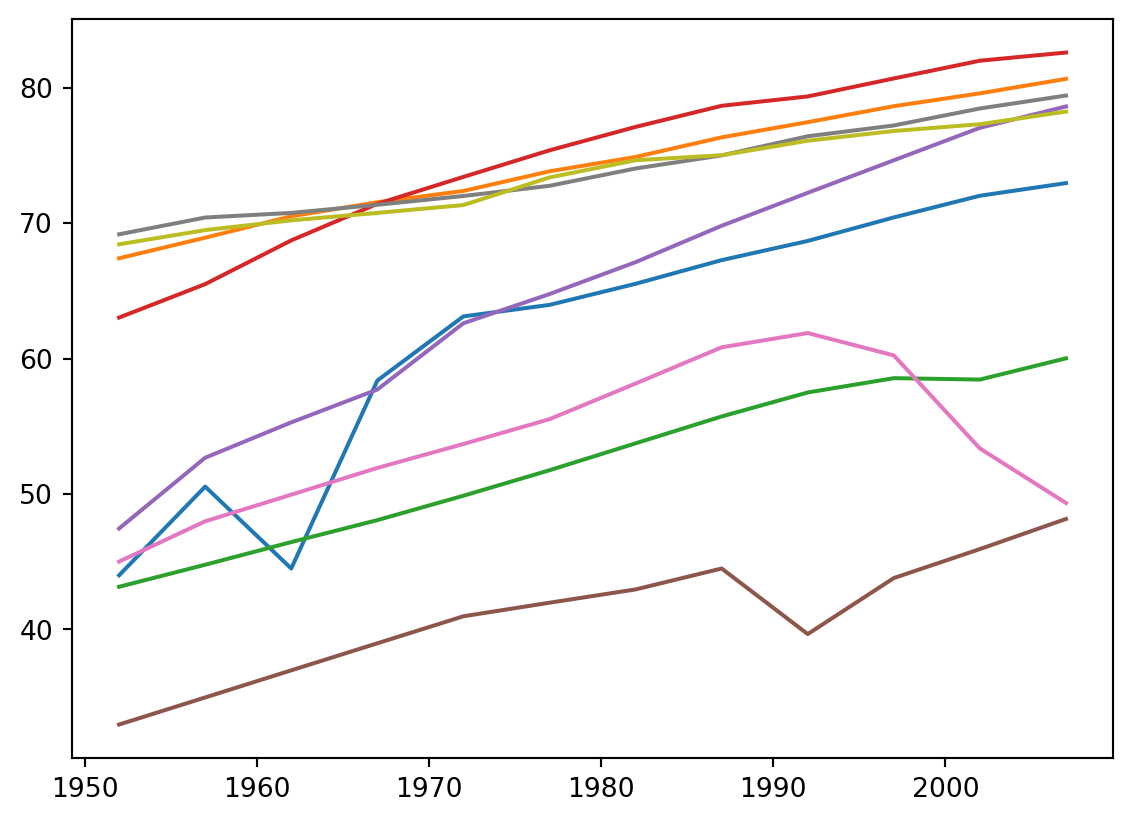
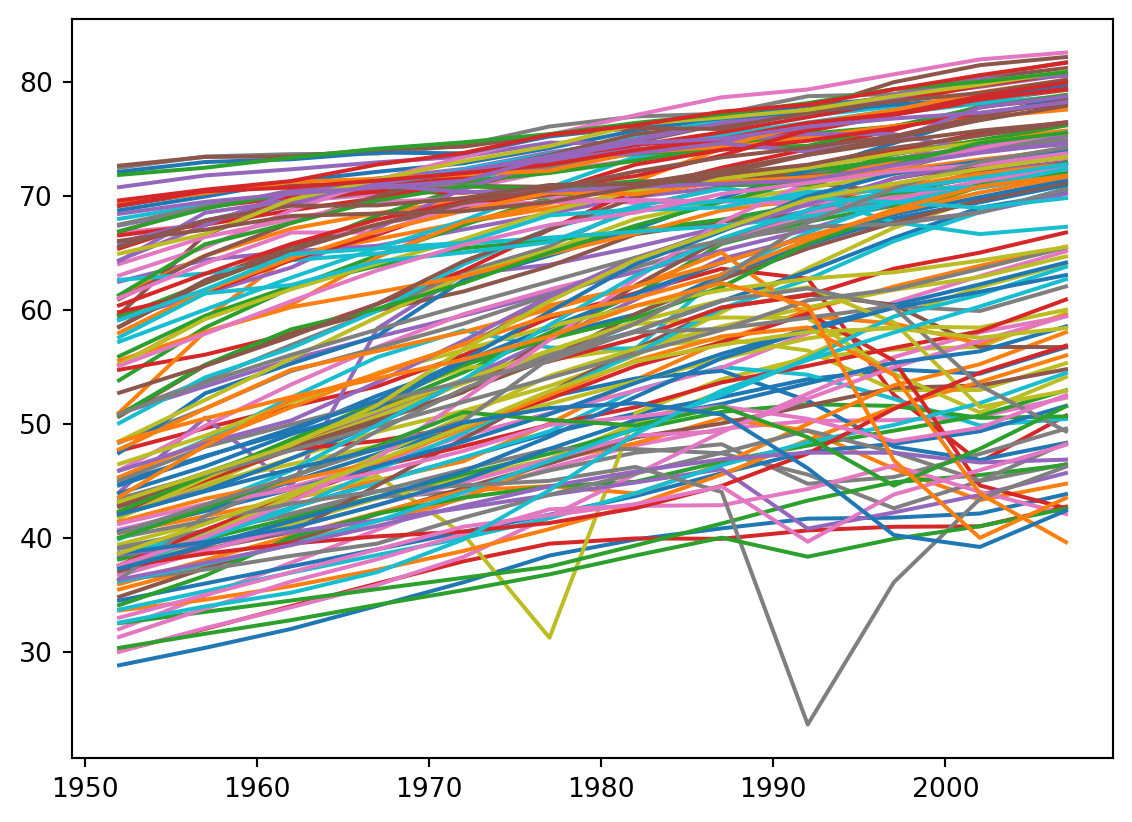
Built site for gh-pages

diff --git a/posts/lineplot_following_economist_visual_guide/index.html b/posts/lineplot_following_economist_visual_guide/index.html
@@ -9,7 +9,7 @@
 <meta name="author" content="Jun Damin">
 <meta name="dcterms.date" content="2022-11-02">
 
-<title>Practical Recipes for Data Science - ‘Economist’ 시각화 가이드를 matplotlib에 적용하기</title>
+<title>Practical Recipes for Data Science - Economist 시각화 가이드를 matplotlib에 적용하기</title>
 <style>
 code{white-space: pre-wrap;}
 span.smallcaps{font-variant: small-caps;}
@@ -167,8 +167,9 @@ code span.wa { color: #60a0b0; font-weight: bold; font-style: italic; } /* Warni
 <header id="title-block-header" class="quarto-title-block default page-columns page-full">
   <div class="quarto-title-banner page-columns page-full">
     <div class="quarto-title column-body">
-      <h1 class="title">Line plot following visual guide of Economists</h1>
+      <h1 class="title">Economist 시각화 가이드를 matplotlib에 적용하기</h1>
                                 <div class="quarto-categories">
+                <div class="quarto-category">python</div>
                 <div class="quarto-category">plot</div>
                 <div class="quarto-category">visualization</div>
                 <div class="quarto-category">matplotlib</div>
@@ -206,120 +207,136 @@ code span.wa { color: #60a0b0; font-weight: bold; font-style: italic; } /* Warni
 
 
 
-<p>we will plot the famous gapminder dataset.</p>
-<div class="cell" data-execution_count="1">
+<p>Economist는 영국에서 발간하는 경제 주간지로 전세계에 일어나고 있는 뉴스를 전달합니다. 뉴스를 전달하는 과정에서 여러가지 차트를 제시하곤 하는데, 설득력 있게 전달하는 방식을 matplotlib에서 적용을 해보고자 합니다.</p>
+<p>예시로 사용할 데이터는 한스 로슬링 박사님이 사용하셨던 gap minder 데이터를 사용해보고자 합니다.</p>
+<p>우선 필요한 패키지를 불러옵니다.</p>
+<div class="cell">
 <div class="sourceCode cell-code" id="cb1"><pre class="sourceCode python code-with-copy"><code class="sourceCode python"><span id="cb1-1"><a href="#cb1-1" aria-hidden="true" tabindex="-1"></a><span class="im">import</span> matplotlib.pyplot <span class="im">as</span> plt</span>
 <span id="cb1-2"><a href="#cb1-2" aria-hidden="true" tabindex="-1"></a><span class="im">import</span> pandas <span class="im">as</span> pd</span>
-<span id="cb1-3"><a href="#cb1-3" aria-hidden="true" tabindex="-1"></a><span class="im">import</span> numpy <span class="im">as</span> np</span></code><button title="Copy to Clipboard" class="code-copy-button"><i class="bi"></i></button></pre></div>
+<span id="cb1-3"><a href="#cb1-3" aria-hidden="true" tabindex="-1"></a><span class="im">import</span> numpy <span class="im">as</span> np</span>
+<span id="cb1-4"><a href="#cb1-4" aria-hidden="true" tabindex="-1"></a></span>
+<span id="cb1-5"><a href="#cb1-5" aria-hidden="true" tabindex="-1"></a>gapminder <span class="op">=</span> pd.read_csv(<span class="st">"https://raw.githubusercontent.com/OHI-Science/data-science-training/master/data/gapminder.csv"</span>)</span></code><button title="Copy to Clipboard" class="code-copy-button"><i class="bi"></i></button></pre></div>
 </div>
-<p>we use three packages</p>
-<section id="basic-plot" class="level3">
-<h3 class="anchored" data-anchor-id="basic-plot">basic plot</h3>
-<div class="cell" data-execution_count="2">
-<div class="sourceCode cell-code" id="cb2"><pre class="sourceCode python code-with-copy"><code class="sourceCode python"><span id="cb2-1"><a href="#cb2-1" aria-hidden="true" tabindex="-1"></a>gapminder <span class="op">=</span> pd.read_csv(<span class="st">"https://raw.githubusercontent.com/OHI-Science/data-science-training/master/data/gapminder.csv"</span>)</span>
+<section id="기본-그래프-출력하기" class="level3">
+<h3 class="anchored" data-anchor-id="기본-그래프-출력하기">기본 그래프 출력하기</h3>
+<p>matplotlib에서 기본적으로 출력할 수 있는 방식은 다음과 같습니다. seaborn을 쓰면 조금 다르겠지만, 크게 다르지 않습니다.</p>
+<div class="cell">
+<div class="sourceCode cell-code" id="cb2"><pre class="sourceCode python code-with-copy"><code class="sourceCode python"><span id="cb2-1"><a href="#cb2-1" aria-hidden="true" tabindex="-1"></a>countries <span class="op">=</span> [<span class="st">'United Kingdom'</span>, <span class="st">'United States'</span>, <span class="st">'France'</span>, <span class="st">'China'</span>, <span class="st">'Japan'</span>, <span class="st">'Korea Rep.'</span>, <span class="st">'Ghana'</span>, <span class="st">'Somalia'</span>, <span class="st">'South Africa'</span>,]</span>
 <span id="cb2-2"><a href="#cb2-2" aria-hidden="true" tabindex="-1"></a></span>
-<span id="cb2-3"><a href="#cb2-3" aria-hidden="true" tabindex="-1"></a>countries <span class="op">=</span> [<span class="st">'United Kingdom'</span>, <span class="st">'United States'</span>, <span class="st">'France'</span>, <span class="st">'China'</span>, <span class="st">'Japan'</span>, <span class="st">'Korea Rep.'</span>, <span class="st">'Ghana'</span>, <span class="st">'Somalia'</span>, <span class="st">'South Africa'</span>,]</span>
-<span id="cb2-4"><a href="#cb2-4" aria-hidden="true" tabindex="-1"></a></span>
-<span id="cb2-5"><a href="#cb2-5" aria-hidden="true" tabindex="-1"></a>data <span class="op">=</span> gapminder.loc[gapminder.country.isin(countries)]</span>
-<span id="cb2-6"><a href="#cb2-6" aria-hidden="true" tabindex="-1"></a>fig, ax <span class="op">=</span> plt.subplots(<span class="dv">1</span>, <span class="dv">1</span>)</span>
-<span id="cb2-7"><a href="#cb2-7" aria-hidden="true" tabindex="-1"></a></span>
-<span id="cb2-8"><a href="#cb2-8" aria-hidden="true" tabindex="-1"></a><span class="cf">for</span> country, df <span class="kw">in</span> data.groupby(<span class="st">"country"</span>):</span>
-<span id="cb2-9"><a href="#cb2-9" aria-hidden="true" tabindex="-1"></a>    ax.plot(df[<span class="st">"year"</span>], df[<span class="st">"lifeExp"</span>], label<span class="op">=</span>country)</span>
-<span id="cb2-10"><a href="#cb2-10" aria-hidden="true" tabindex="-1"></a></span>
-<span id="cb2-11"><a href="#cb2-11" aria-hidden="true" tabindex="-1"></a>plt.show()</span></code><button title="Copy to Clipboard" class="code-copy-button"><i class="bi"></i></button></pre></div>
-<div class="cell-output cell-output-display">
-<p><img src="index_files/figure-html/cell-3-output-1.png" width="566" height="411"></p>
+<span id="cb2-3"><a href="#cb2-3" aria-hidden="true" tabindex="-1"></a>data <span class="op">=</span> gapminder.loc[gapminder.country.isin(countries)]</span>
+<span id="cb2-4"><a href="#cb2-4" aria-hidden="true" tabindex="-1"></a>fig, ax <span class="op">=</span> plt.subplots(<span class="dv">1</span>, <span class="dv">1</span>)</span>
+<span id="cb2-5"><a href="#cb2-5" aria-hidden="true" tabindex="-1"></a></span>
+<span id="cb2-6"><a href="#cb2-6" aria-hidden="true" tabindex="-1"></a><span class="cf">for</span> country, df <span class="kw">in</span> gapminder.groupby(<span class="st">"country"</span>):</span>
+<span id="cb2-7"><a href="#cb2-7" aria-hidden="true" tabindex="-1"></a>    ax.plot(df[<span class="st">"year"</span>], df[<span class="st">"lifeExp"</span>], label<span class="op">=</span>country)</span>
+<span id="cb2-8"><a href="#cb2-8" aria-hidden="true" tabindex="-1"></a></span>
+<span id="cb2-9"><a href="#cb2-9" aria-hidden="true" tabindex="-1"></a>plt.show()</span></code><button title="Copy to Clipboard" class="code-copy-button"><i class="bi"></i></button></pre></div>
 </div>
-</div>
-<p>From now, I will change this graph beautifully.</p>
-<div class="cell" data-execution_count="3">
-<div class="sourceCode cell-code" id="cb3"><pre class="sourceCode python code-with-copy"><code class="sourceCode python"><span id="cb3-1"><a href="#cb3-1" aria-hidden="true" tabindex="-1"></a><span class="co"># Setup plot size.</span></span>
-<span id="cb3-2"><a href="#cb3-2" aria-hidden="true" tabindex="-1"></a>fig, ax <span class="op">=</span> plt.subplots(figsize<span class="op">=</span>(<span class="dv">6</span>,<span class="dv">6</span>))</span>
+<p>보시면 알겠지만, 너무 많은 선이 노출되어 있어서 무엇을 전달하려고 하는지 전달이 되지 않습니다. 전반적으로 기대 수명이 개선 되고 있는 것을 확인할 수 있습니다만, 너무 복잡해서 무엇을 전달하고자 하는지 이해가 되지 않습니다.</p>
+</section>
+<section id="스타일-적용하기" class="level3">
+<h3 class="anchored" data-anchor-id="스타일-적용하기">스타일 적용하기</h3>
+<p>Economist에서 방식은 메시지를 집중하는 방식을 사용합니다.</p>
+<p>앞으로 진행해보고자 하는 것을 정리하자면</p>
+<ol type="1">
+<li>비교하고자 하는 자료를 강조하고 그 외의 자료는 간략하게</li>
+<li>세로축과 보조선을 제외하기</li>
+<li>가로선을 설정하기</li>
+<li>태그 넣기</li>
+</ol>
+<p>정도 입니다. 아래에 그 방식을 따라하면 됩니다.</p>
+<div class="cell">
+<div class="sourceCode cell-code" id="cb3"><pre class="sourceCode python code-with-copy"><code class="sourceCode python"><span id="cb3-1"><a href="#cb3-1" aria-hidden="true" tabindex="-1"></a><span class="co"># 플롯 설정하기</span></span>
+<span id="cb3-2"><a href="#cb3-2" aria-hidden="true" tabindex="-1"></a>fig, ax <span class="op">=</span> plt.subplots(figsize<span class="op">=</span>(<span class="dv">8</span>,<span class="dv">6</span>))</span>
 <span id="cb3-3"><a href="#cb3-3" aria-hidden="true" tabindex="-1"></a></span>
-<span id="cb3-4"><a href="#cb3-4" aria-hidden="true" tabindex="-1"></a><span class="co"># Create grid </span></span>
-<span id="cb3-5"><a href="#cb3-5" aria-hidden="true" tabindex="-1"></a><span class="co"># Zorder tells it which layer to put it on. We are setting this to 1 and our data to 2 so the grid is behind the data.</span></span>
+<span id="cb3-4"><a href="#cb3-4" aria-hidden="true" tabindex="-1"></a><span class="co"># 1. 보조선 그리기</span></span>
+<span id="cb3-5"><a href="#cb3-5" aria-hidden="true" tabindex="-1"></a><span class="co"># zorder를 통해서 보여지는 순서를 지정할 수 있습니다.</span></span>
 <span id="cb3-6"><a href="#cb3-6" aria-hidden="true" tabindex="-1"></a></span>
 <span id="cb3-7"><a href="#cb3-7" aria-hidden="true" tabindex="-1"></a>ax.yaxis.set_ticks(<span class="bu">range</span>(<span class="dv">25</span>, <span class="dv">100</span>, <span class="dv">15</span>))</span>
 <span id="cb3-8"><a href="#cb3-8" aria-hidden="true" tabindex="-1"></a>ax.grid(which<span class="op">=</span><span class="st">"major"</span>, axis<span class="op">=</span><span class="st">'y'</span>, color<span class="op">=</span><span class="st">'#758D99'</span>, alpha<span class="op">=</span><span class="fl">0.6</span>, zorder<span class="op">=</span><span class="dv">1</span>, )</span>
 <span id="cb3-9"><a href="#cb3-9" aria-hidden="true" tabindex="-1"></a></span>
-<span id="cb3-10"><a href="#cb3-10" aria-hidden="true" tabindex="-1"></a></span>
-<span id="cb3-11"><a href="#cb3-11" aria-hidden="true" tabindex="-1"></a><span class="co"># Plot data</span></span>
-<span id="cb3-12"><a href="#cb3-12" aria-hidden="true" tabindex="-1"></a><span class="co"># Loop through country names and plot each one.</span></span>
-<span id="cb3-13"><a href="#cb3-13" aria-hidden="true" tabindex="-1"></a><span class="cf">for</span> name, df <span class="kw">in</span> gapminder.groupby(<span class="st">"country"</span>):</span>
-<span id="cb3-14"><a href="#cb3-14" aria-hidden="true" tabindex="-1"></a>    ax.plot(df[<span class="st">'year'</span>], </span>
-<span id="cb3-15"><a href="#cb3-15" aria-hidden="true" tabindex="-1"></a>            df[<span class="st">'lifeExp'</span>], </span>
-<span id="cb3-16"><a href="#cb3-16" aria-hidden="true" tabindex="-1"></a>            color<span class="op">=</span><span class="st">'#758D99'</span>, </span>
-<span id="cb3-17"><a href="#cb3-17" aria-hidden="true" tabindex="-1"></a>            alpha<span class="op">=</span><span class="fl">0.3</span>, </span>
-<span id="cb3-18"><a href="#cb3-18" aria-hidden="true" tabindex="-1"></a>            linewidth<span class="op">=</span><span class="dv">3</span>)</span>
-<span id="cb3-19"><a href="#cb3-19" aria-hidden="true" tabindex="-1"></a></span>
-<span id="cb3-20"><a href="#cb3-20" aria-hidden="true" tabindex="-1"></a><span class="co"># Plot US and China separately</span></span>
-<span id="cb3-21"><a href="#cb3-21" aria-hidden="true" tabindex="-1"></a>ax.plot(data[data[<span class="st">'country'</span>] <span class="op">==</span> <span class="st">'United States'</span>][<span class="st">'year'</span>], </span>
-<span id="cb3-22"><a href="#cb3-22" aria-hidden="true" tabindex="-1"></a>        data[data[<span class="st">'country'</span>] <span class="op">==</span> <span class="st">'United States'</span>][<span class="st">'lifeExp'</span>], </span>
-<span id="cb3-23"><a href="#cb3-23" aria-hidden="true" tabindex="-1"></a>        color<span class="op">=</span><span class="st">'#006BA2'</span>,</span>
-<span id="cb3-24"><a href="#cb3-24" aria-hidden="true" tabindex="-1"></a>        linewidth<span class="op">=</span><span class="dv">3</span>)</span>
-<span id="cb3-25"><a href="#cb3-25" aria-hidden="true" tabindex="-1"></a></span>
-<span id="cb3-26"><a href="#cb3-26" aria-hidden="true" tabindex="-1"></a>ax.plot(data[data[<span class="st">'country'</span>] <span class="op">==</span> <span class="st">'China'</span>][<span class="st">'year'</span>], </span>
-<span id="cb3-27"><a href="#cb3-27" aria-hidden="true" tabindex="-1"></a>        data[data[<span class="st">'country'</span>] <span class="op">==</span> <span class="st">'China'</span>][<span class="st">'lifeExp'</span>], </span>
-<span id="cb3-28"><a href="#cb3-28" aria-hidden="true" tabindex="-1"></a>        color<span class="op">=</span><span class="st">'#DB444B'</span>,</span>
-<span id="cb3-29"><a href="#cb3-29" aria-hidden="true" tabindex="-1"></a>        linewidth<span class="op">=</span><span class="dv">3</span>)</span>
-<span id="cb3-30"><a href="#cb3-30" aria-hidden="true" tabindex="-1"></a></span>
-<span id="cb3-31"><a href="#cb3-31" aria-hidden="true" tabindex="-1"></a><span class="co"># Remove splines. Can be done one at a time or can slice with a list.</span></span>
-<span id="cb3-32"><a href="#cb3-32" aria-hidden="true" tabindex="-1"></a>ax.spines[[<span class="st">'top'</span>,<span class="st">'right'</span>,<span class="st">'left'</span>]].set_visible(<span class="va">False</span>)</span>
-<span id="cb3-33"><a href="#cb3-33" aria-hidden="true" tabindex="-1"></a></span>
-<span id="cb3-34"><a href="#cb3-34" aria-hidden="true" tabindex="-1"></a><span class="co"># Shrink y-lim to make plot a bit tigheter</span></span>
-<span id="cb3-35"><a href="#cb3-35" aria-hidden="true" tabindex="-1"></a>ax.set_ylim(<span class="dv">25</span>, <span class="dv">100</span>)</span>
-<span id="cb3-36"><a href="#cb3-36" aria-hidden="true" tabindex="-1"></a></span>
-<span id="cb3-37"><a href="#cb3-37" aria-hidden="true" tabindex="-1"></a><span class="co"># Set xlim to fit data without going over plot area</span></span>
-<span id="cb3-38"><a href="#cb3-38" aria-hidden="true" tabindex="-1"></a>ax.set_xlim(<span class="dv">1952</span>, <span class="dv">2008</span>)</span>
-<span id="cb3-39"><a href="#cb3-39" aria-hidden="true" tabindex="-1"></a></span>
-<span id="cb3-40"><a href="#cb3-40" aria-hidden="true" tabindex="-1"></a><span class="co"># Reformat x-axis tick labels</span></span>
-<span id="cb3-41"><a href="#cb3-41" aria-hidden="true" tabindex="-1"></a>ax.xaxis.set_tick_params(labelsize<span class="op">=</span><span class="dv">11</span>)        <span class="co"># Set tick label size</span></span>
+<span id="cb3-10"><a href="#cb3-10" aria-hidden="true" tabindex="-1"></a><span class="co"># 불필요한 테두리 제거하기</span></span>
+<span id="cb3-11"><a href="#cb3-11" aria-hidden="true" tabindex="-1"></a>ax.spines[[<span class="st">'top'</span>,<span class="st">'right'</span>,<span class="st">'left'</span>]].set_visible(<span class="va">False</span>)</span>
+<span id="cb3-12"><a href="#cb3-12" aria-hidden="true" tabindex="-1"></a></span>
+<span id="cb3-13"><a href="#cb3-13" aria-hidden="true" tabindex="-1"></a><span class="co"># 축 눈금 스타일 조정하기</span></span>
+<span id="cb3-14"><a href="#cb3-14" aria-hidden="true" tabindex="-1"></a>ax.set_yticklabels(ax.get_yticklabels(),            <span class="co"># Set labels again</span></span>
+<span id="cb3-15"><a href="#cb3-15" aria-hidden="true" tabindex="-1"></a>                   ha <span class="op">=</span> <span class="st">'right'</span>,                 <span class="co"># Set horizontal alignment to right</span></span>
+<span id="cb3-16"><a href="#cb3-16" aria-hidden="true" tabindex="-1"></a>                   verticalalignment<span class="op">=</span><span class="st">'bottom'</span>)   <span class="co"># Set vertical alignment to make labels on top of gridline      </span></span>
+<span id="cb3-17"><a href="#cb3-17" aria-hidden="true" tabindex="-1"></a></span>
+<span id="cb3-18"><a href="#cb3-18" aria-hidden="true" tabindex="-1"></a></span>
+<span id="cb3-19"><a href="#cb3-19" aria-hidden="true" tabindex="-1"></a>ax.yaxis.set_tick_params(pad<span class="op">=</span><span class="dv">11</span>,             <span class="co"># Pad tick labels so they don't go over y-axis</span></span>
+<span id="cb3-20"><a href="#cb3-20" aria-hidden="true" tabindex="-1"></a>                         labeltop<span class="op">=</span><span class="va">True</span>,      <span class="co"># Put x-axis labels on top</span></span>
+<span id="cb3-21"><a href="#cb3-21" aria-hidden="true" tabindex="-1"></a>                         labelbottom<span class="op">=</span><span class="va">False</span>,  <span class="co"># Set no x-axis labels on bottom</span></span>
+<span id="cb3-22"><a href="#cb3-22" aria-hidden="true" tabindex="-1"></a>                         bottom<span class="op">=</span><span class="va">False</span>,       <span class="co"># Set no ticks on bottom</span></span>
+<span id="cb3-23"><a href="#cb3-23" aria-hidden="true" tabindex="-1"></a>                         labelsize<span class="op">=</span><span class="dv">11</span>)       <span class="co"># Set tick label size</span></span>
+<span id="cb3-24"><a href="#cb3-24" aria-hidden="true" tabindex="-1"></a></span>
+<span id="cb3-25"><a href="#cb3-25" aria-hidden="true" tabindex="-1"></a>ax.xaxis.set_tick_params(labelsize<span class="op">=</span><span class="dv">11</span>)        <span class="co"># Set tick label size</span></span>
+<span id="cb3-26"><a href="#cb3-26" aria-hidden="true" tabindex="-1"></a></span>
+<span id="cb3-27"><a href="#cb3-27" aria-hidden="true" tabindex="-1"></a></span>
+<span id="cb3-28"><a href="#cb3-28" aria-hidden="true" tabindex="-1"></a><span class="co"># Economist 스타일 넣기</span></span>
+<span id="cb3-29"><a href="#cb3-29" aria-hidden="true" tabindex="-1"></a>ax.plot([<span class="fl">0.12</span>, <span class="fl">.9</span>],                  <span class="co"># Set width of line</span></span>
+<span id="cb3-30"><a href="#cb3-30" aria-hidden="true" tabindex="-1"></a>        [<span class="fl">.98</span>, <span class="fl">.98</span>],                  <span class="co"># Set height of line</span></span>
+<span id="cb3-31"><a href="#cb3-31" aria-hidden="true" tabindex="-1"></a>        transform<span class="op">=</span>fig.transFigure,   <span class="co"># Set location relative to plot</span></span>
+<span id="cb3-32"><a href="#cb3-32" aria-hidden="true" tabindex="-1"></a>        clip_on<span class="op">=</span><span class="va">False</span>, </span>
+<span id="cb3-33"><a href="#cb3-33" aria-hidden="true" tabindex="-1"></a>        color<span class="op">=</span><span class="st">'#E3120B'</span>, </span>
+<span id="cb3-34"><a href="#cb3-34" aria-hidden="true" tabindex="-1"></a>        linewidth<span class="op">=</span><span class="fl">.6</span>)</span>
+<span id="cb3-35"><a href="#cb3-35" aria-hidden="true" tabindex="-1"></a>ax.add_patch(plt.Rectangle((<span class="fl">0.12</span>,<span class="fl">.98</span>),                 <span class="co"># Set location of rectangle by lower left corder</span></span>
+<span id="cb3-36"><a href="#cb3-36" aria-hidden="true" tabindex="-1"></a>                           <span class="fl">0.04</span>,                       <span class="co"># Width of rectangle</span></span>
+<span id="cb3-37"><a href="#cb3-37" aria-hidden="true" tabindex="-1"></a>                           <span class="op">-</span><span class="fl">0.02</span>,                      <span class="co"># Height of rectangle. Negative so it goes down.</span></span>
+<span id="cb3-38"><a href="#cb3-38" aria-hidden="true" tabindex="-1"></a>                           facecolor<span class="op">=</span><span class="st">'#E3120B'</span>, </span>
+<span id="cb3-39"><a href="#cb3-39" aria-hidden="true" tabindex="-1"></a>                           transform<span class="op">=</span>fig.transFigure, </span>
+<span id="cb3-40"><a href="#cb3-40" aria-hidden="true" tabindex="-1"></a>                           clip_on<span class="op">=</span><span class="va">False</span>, </span>
+<span id="cb3-41"><a href="#cb3-41" aria-hidden="true" tabindex="-1"></a>                           linewidth <span class="op">=</span> <span class="dv">0</span>))</span>
 <span id="cb3-42"><a href="#cb3-42" aria-hidden="true" tabindex="-1"></a></span>
-<span id="cb3-43"><a href="#cb3-43" aria-hidden="true" tabindex="-1"></a><span class="co"># Reformat y-axis tick labels</span></span>
-<span id="cb3-44"><a href="#cb3-44" aria-hidden="true" tabindex="-1"></a>ax.set_yticklabels(np.arange(<span class="dv">25</span>,<span class="dv">100</span>,<span class="dv">15</span>),            <span class="co"># Set labels again</span></span>
-<span id="cb3-45"><a href="#cb3-45" aria-hidden="true" tabindex="-1"></a>                   ha <span class="op">=</span> <span class="st">'right'</span>,                 <span class="co"># Set horizontal alignment to right</span></span>
-<span id="cb3-46"><a href="#cb3-46" aria-hidden="true" tabindex="-1"></a>                   verticalalignment<span class="op">=</span><span class="st">'bottom'</span>)   <span class="co"># Set vertical alignment to make labels on top of gridline      </span></span>
-<span id="cb3-47"><a href="#cb3-47" aria-hidden="true" tabindex="-1"></a></span>
-<span id="cb3-48"><a href="#cb3-48" aria-hidden="true" tabindex="-1"></a>ax.yaxis.set_tick_params(pad<span class="op">=</span><span class="dv">11</span>,             <span class="co"># Pad tick labels so they don't go over y-axis</span></span>
-<span id="cb3-49"><a href="#cb3-49" aria-hidden="true" tabindex="-1"></a>                         labeltop<span class="op">=</span><span class="va">True</span>,      <span class="co"># Put x-axis labels on top</span></span>
-<span id="cb3-50"><a href="#cb3-50" aria-hidden="true" tabindex="-1"></a>                         labelbottom<span class="op">=</span><span class="va">False</span>,  <span class="co"># Set no x-axis labels on bottom</span></span>
-<span id="cb3-51"><a href="#cb3-51" aria-hidden="true" tabindex="-1"></a>                         bottom<span class="op">=</span><span class="va">False</span>,       <span class="co"># Set no ticks on bottom</span></span>
-<span id="cb3-52"><a href="#cb3-52" aria-hidden="true" tabindex="-1"></a>                         labelsize<span class="op">=</span><span class="dv">11</span>)       <span class="co"># Set tick label size</span></span>
-<span id="cb3-53"><a href="#cb3-53" aria-hidden="true" tabindex="-1"></a></span>
-<span id="cb3-54"><a href="#cb3-54" aria-hidden="true" tabindex="-1"></a><span class="co"># Add labels for USA and China</span></span>
-<span id="cb3-55"><a href="#cb3-55" aria-hidden="true" tabindex="-1"></a></span>
-<span id="cb3-56"><a href="#cb3-56" aria-hidden="true" tabindex="-1"></a></span>
-<span id="cb3-57"><a href="#cb3-57" aria-hidden="true" tabindex="-1"></a>ax.text(x<span class="op">=</span><span class="fl">.25</span>, y<span class="op">=</span><span class="fl">.63</span>, s<span class="op">=</span><span class="st">'United States'</span>, transform<span class="op">=</span>fig.transFigure, size<span class="op">=</span><span class="dv">10</span>, alpha<span class="op">=</span><span class="fl">.9</span>, color<span class="op">=</span><span class="st">"#006BA2"</span>)</span>
-<span id="cb3-58"><a href="#cb3-58" aria-hidden="true" tabindex="-1"></a>ax.text(x<span class="op">=</span><span class="fl">.7</span>, y<span class="op">=</span><span class="fl">.52</span>, s<span class="op">=</span><span class="st">'China'</span>, transform<span class="op">=</span>fig.transFigure, size<span class="op">=</span><span class="dv">10</span>, alpha<span class="op">=</span><span class="fl">.9</span>, color<span class="op">=</span><span class="st">"#DB444B"</span>)</span>
-<span id="cb3-59"><a href="#cb3-59" aria-hidden="true" tabindex="-1"></a></span>
-<span id="cb3-60"><a href="#cb3-60" aria-hidden="true" tabindex="-1"></a></span>
-<span id="cb3-61"><a href="#cb3-61" aria-hidden="true" tabindex="-1"></a><span class="co"># Add in line and tag</span></span>
-<span id="cb3-62"><a href="#cb3-62" aria-hidden="true" tabindex="-1"></a>ax.plot([<span class="fl">0.12</span>, <span class="fl">.9</span>],                  <span class="co"># Set width of line</span></span>
-<span id="cb3-63"><a href="#cb3-63" aria-hidden="true" tabindex="-1"></a>        [<span class="fl">.98</span>, <span class="fl">.98</span>],                  <span class="co"># Set height of line</span></span>
-<span id="cb3-64"><a href="#cb3-64" aria-hidden="true" tabindex="-1"></a>        transform<span class="op">=</span>fig.transFigure,   <span class="co"># Set location relative to plot</span></span>
-<span id="cb3-65"><a href="#cb3-65" aria-hidden="true" tabindex="-1"></a>        clip_on<span class="op">=</span><span class="va">False</span>, </span>
-<span id="cb3-66"><a href="#cb3-66" aria-hidden="true" tabindex="-1"></a>        color<span class="op">=</span><span class="st">'#E3120B'</span>, </span>
-<span id="cb3-67"><a href="#cb3-67" aria-hidden="true" tabindex="-1"></a>        linewidth<span class="op">=</span><span class="fl">.6</span>)</span>
-<span id="cb3-68"><a href="#cb3-68" aria-hidden="true" tabindex="-1"></a>ax.add_patch(plt.Rectangle((<span class="fl">0.12</span>,<span class="fl">.98</span>),                 <span class="co"># Set location of rectangle by lower left corder</span></span>
-<span id="cb3-69"><a href="#cb3-69" aria-hidden="true" tabindex="-1"></a>                           <span class="fl">0.04</span>,                       <span class="co"># Width of rectangle</span></span>
-<span id="cb3-70"><a href="#cb3-70" aria-hidden="true" tabindex="-1"></a>                           <span class="op">-</span><span class="fl">0.02</span>,                      <span class="co"># Height of rectangle. Negative so it goes down.</span></span>
-<span id="cb3-71"><a href="#cb3-71" aria-hidden="true" tabindex="-1"></a>                           facecolor<span class="op">=</span><span class="st">'#E3120B'</span>, </span>
-<span id="cb3-72"><a href="#cb3-72" aria-hidden="true" tabindex="-1"></a>                           transform<span class="op">=</span>fig.transFigure, </span>
-<span id="cb3-73"><a href="#cb3-73" aria-hidden="true" tabindex="-1"></a>                           clip_on<span class="op">=</span><span class="va">False</span>, </span>
-<span id="cb3-74"><a href="#cb3-74" aria-hidden="true" tabindex="-1"></a>                           linewidth <span class="op">=</span> <span class="dv">0</span>))</span>
-<span id="cb3-75"><a href="#cb3-75" aria-hidden="true" tabindex="-1"></a></span>
-<span id="cb3-76"><a href="#cb3-76" aria-hidden="true" tabindex="-1"></a><span class="co"># Add in title and subtitle</span></span>
-<span id="cb3-77"><a href="#cb3-77" aria-hidden="true" tabindex="-1"></a>ax.text(x<span class="op">=</span><span class="fl">0.12</span>, y<span class="op">=</span><span class="fl">.91</span>, s<span class="op">=</span><span class="st">"Life Expectation"</span>, transform<span class="op">=</span>fig.transFigure, ha<span class="op">=</span><span class="st">'left'</span>, fontsize<span class="op">=</span><span class="dv">13</span>, weight<span class="op">=</span><span class="st">'bold'</span>, alpha<span class="op">=</span><span class="fl">.8</span>)</span>
-<span id="cb3-78"><a href="#cb3-78" aria-hidden="true" tabindex="-1"></a>ax.text(x<span class="op">=</span><span class="fl">0.12</span>, y<span class="op">=</span><span class="fl">.86</span>, s<span class="op">=</span><span class="st">"Various countries, 1952-2007"</span>, transform<span class="op">=</span>fig.transFigure, ha<span class="op">=</span><span class="st">'left'</span>, fontsize<span class="op">=</span><span class="dv">11</span>, alpha<span class="op">=</span><span class="fl">.8</span>)</span>
-<span id="cb3-79"><a href="#cb3-79" aria-hidden="true" tabindex="-1"></a></span>
-<span id="cb3-80"><a href="#cb3-80" aria-hidden="true" tabindex="-1"></a><span class="co"># Set source text</span></span>
-<span id="cb3-81"><a href="#cb3-81" aria-hidden="true" tabindex="-1"></a>ax.text(x<span class="op">=</span><span class="fl">0.12</span>, y<span class="op">=</span><span class="fl">0.01</span>, s<span class="op">=</span><span class="st">"""Source: "GAP minder"""</span>, transform<span class="op">=</span>fig.transFigure, ha<span class="op">=</span><span class="st">'left'</span>, fontsize<span class="op">=</span><span class="dv">9</span>, alpha<span class="op">=</span><span class="fl">.7</span>)</span></code><button title="Copy to Clipboard" class="code-copy-button"><i class="bi"></i></button></pre></div>
-<div class="cell-output cell-output-display" data-execution_count="3">
-<pre><code>Text(0.12, 0.01, 'Source: "GAP minder')</code></pre>
-</div>
-<div class="cell-output cell-output-display">
-<p><img src="index_files/figure-html/cell-4-output-2.png" width="488" height="580"></p>
-</div>
+<span id="cb3-43"><a href="#cb3-43" aria-hidden="true" tabindex="-1"></a></span>
+<span id="cb3-44"><a href="#cb3-44" aria-hidden="true" tabindex="-1"></a><span class="co"># Plot data</span></span>
+<span id="cb3-45"><a href="#cb3-45" aria-hidden="true" tabindex="-1"></a><span class="co"># Loop through country names and plot each one.</span></span>
+<span id="cb3-46"><a href="#cb3-46" aria-hidden="true" tabindex="-1"></a><span class="cf">for</span> name, df <span class="kw">in</span> gapminder.groupby(<span class="st">"country"</span>):</span>
+<span id="cb3-47"><a href="#cb3-47" aria-hidden="true" tabindex="-1"></a>    ax.plot(df[<span class="st">'year'</span>], </span>
+<span id="cb3-48"><a href="#cb3-48" aria-hidden="true" tabindex="-1"></a>            df[<span class="st">'lifeExp'</span>], </span>
+<span id="cb3-49"><a href="#cb3-49" aria-hidden="true" tabindex="-1"></a>            color<span class="op">=</span><span class="st">'#758D99'</span>, </span>
+<span id="cb3-50"><a href="#cb3-50" aria-hidden="true" tabindex="-1"></a>            alpha<span class="op">=</span><span class="fl">0.1</span>, </span>
+<span id="cb3-51"><a href="#cb3-51" aria-hidden="true" tabindex="-1"></a>            linewidth<span class="op">=</span><span class="dv">3</span>)</span>
+<span id="cb3-52"><a href="#cb3-52" aria-hidden="true" tabindex="-1"></a></span>
+<span id="cb3-53"><a href="#cb3-53" aria-hidden="true" tabindex="-1"></a><span class="co"># Plot US and China separately</span></span>
+<span id="cb3-54"><a href="#cb3-54" aria-hidden="true" tabindex="-1"></a>ax.plot(data[data[<span class="st">'country'</span>] <span class="op">==</span> <span class="st">'United States'</span>][<span class="st">'year'</span>], </span>
+<span id="cb3-55"><a href="#cb3-55" aria-hidden="true" tabindex="-1"></a>        data[data[<span class="st">'country'</span>] <span class="op">==</span> <span class="st">'United States'</span>][<span class="st">'lifeExp'</span>], </span>
+<span id="cb3-56"><a href="#cb3-56" aria-hidden="true" tabindex="-1"></a>        color<span class="op">=</span><span class="st">'#006BA2'</span>,</span>
+<span id="cb3-57"><a href="#cb3-57" aria-hidden="true" tabindex="-1"></a>        linewidth<span class="op">=</span><span class="dv">3</span>)</span>
+<span id="cb3-58"><a href="#cb3-58" aria-hidden="true" tabindex="-1"></a></span>
+<span id="cb3-59"><a href="#cb3-59" aria-hidden="true" tabindex="-1"></a>ax.plot(data[data[<span class="st">'country'</span>] <span class="op">==</span> <span class="st">'China'</span>][<span class="st">'year'</span>], </span>
+<span id="cb3-60"><a href="#cb3-60" aria-hidden="true" tabindex="-1"></a>        data[data[<span class="st">'country'</span>] <span class="op">==</span> <span class="st">'China'</span>][<span class="st">'lifeExp'</span>], </span>
+<span id="cb3-61"><a href="#cb3-61" aria-hidden="true" tabindex="-1"></a>        color<span class="op">=</span><span class="st">'#DB444B'</span>,</span>
+<span id="cb3-62"><a href="#cb3-62" aria-hidden="true" tabindex="-1"></a>        linewidth<span class="op">=</span><span class="dv">3</span>)</span>
+<span id="cb3-63"><a href="#cb3-63" aria-hidden="true" tabindex="-1"></a></span>
+<span id="cb3-64"><a href="#cb3-64" aria-hidden="true" tabindex="-1"></a></span>
+<span id="cb3-65"><a href="#cb3-65" aria-hidden="true" tabindex="-1"></a>ax.plot(data[data[<span class="st">'country'</span>] <span class="op">==</span> <span class="st">'Korea Rep.'</span>][<span class="st">'year'</span>], </span>
+<span id="cb3-66"><a href="#cb3-66" aria-hidden="true" tabindex="-1"></a>        data[data[<span class="st">'country'</span>] <span class="op">==</span> <span class="st">'Korea Rep.'</span>][<span class="st">'lifeExp'</span>], </span>
+<span id="cb3-67"><a href="#cb3-67" aria-hidden="true" tabindex="-1"></a>        color<span class="op">=</span><span class="st">'#3EBCD2'</span>,</span>
+<span id="cb3-68"><a href="#cb3-68" aria-hidden="true" tabindex="-1"></a>        linewidth<span class="op">=</span><span class="dv">3</span>)</span>
+<span id="cb3-69"><a href="#cb3-69" aria-hidden="true" tabindex="-1"></a></span>
+<span id="cb3-70"><a href="#cb3-70" aria-hidden="true" tabindex="-1"></a></span>
+<span id="cb3-71"><a href="#cb3-71" aria-hidden="true" tabindex="-1"></a><span class="co"># y 범위 설정하기</span></span>
+<span id="cb3-72"><a href="#cb3-72" aria-hidden="true" tabindex="-1"></a>ax.set_ylim(<span class="dv">25</span>, <span class="dv">100</span>)</span>
+<span id="cb3-73"><a href="#cb3-73" aria-hidden="true" tabindex="-1"></a></span>
+<span id="cb3-74"><a href="#cb3-74" aria-hidden="true" tabindex="-1"></a><span class="co"># x 범위 설정하기</span></span>
+<span id="cb3-75"><a href="#cb3-75" aria-hidden="true" tabindex="-1"></a>ax.set_xlim(<span class="dv">1952</span>, <span class="dv">2008</span>)</span>
+<span id="cb3-76"><a href="#cb3-76" aria-hidden="true" tabindex="-1"></a></span>
+<span id="cb3-77"><a href="#cb3-77" aria-hidden="true" tabindex="-1"></a><span class="co"># 레이블 넣기</span></span>
+<span id="cb3-78"><a href="#cb3-78" aria-hidden="true" tabindex="-1"></a>ax.text(x<span class="op">=</span><span class="fl">.25</span>, y<span class="op">=</span><span class="fl">.63</span>, s<span class="op">=</span><span class="st">'United States'</span>, transform<span class="op">=</span>fig.transFigure, size<span class="op">=</span><span class="dv">10</span>, alpha<span class="op">=</span><span class="fl">.9</span>, color<span class="op">=</span><span class="st">"#006BA2"</span>)</span>
+<span id="cb3-79"><a href="#cb3-79" aria-hidden="true" tabindex="-1"></a>ax.text(x<span class="op">=</span><span class="fl">.7</span>, y<span class="op">=</span><span class="fl">.52</span>, s<span class="op">=</span><span class="st">'China'</span>, transform<span class="op">=</span>fig.transFigure, size<span class="op">=</span><span class="dv">10</span>, alpha<span class="op">=</span><span class="fl">.9</span>, color<span class="op">=</span><span class="st">"#DB444B"</span>)</span>
+<span id="cb3-80"><a href="#cb3-80" aria-hidden="true" tabindex="-1"></a>ax.text(x<span class="op">=</span><span class="fl">.2</span>, y<span class="op">=</span><span class="fl">.45</span>, s<span class="op">=</span><span class="st">'Korea Rep.'</span>, transform<span class="op">=</span>fig.transFigure, size<span class="op">=</span><span class="dv">10</span>, alpha<span class="op">=</span><span class="fl">.9</span>, color<span class="op">=</span><span class="st">"#3EBCD2"</span>)</span>
+<span id="cb3-81"><a href="#cb3-81" aria-hidden="true" tabindex="-1"></a></span>
+<span id="cb3-82"><a href="#cb3-82" aria-hidden="true" tabindex="-1"></a></span>
+<span id="cb3-83"><a href="#cb3-83" aria-hidden="true" tabindex="-1"></a></span>
+<span id="cb3-84"><a href="#cb3-84" aria-hidden="true" tabindex="-1"></a><span class="co"># 타이틀과 서브타이틀 넣기</span></span>
+<span id="cb3-85"><a href="#cb3-85" aria-hidden="true" tabindex="-1"></a>ax.text(x<span class="op">=</span><span class="fl">0.12</span>, y<span class="op">=</span><span class="fl">.91</span>, s<span class="op">=</span><span class="st">"Life Expectation"</span>, transform<span class="op">=</span>fig.transFigure, ha<span class="op">=</span><span class="st">'left'</span>, fontsize<span class="op">=</span><span class="dv">13</span>, weight<span class="op">=</span><span class="st">'bold'</span>, alpha<span class="op">=</span><span class="fl">.8</span>)</span>
+<span id="cb3-86"><a href="#cb3-86" aria-hidden="true" tabindex="-1"></a>ax.text(x<span class="op">=</span><span class="fl">0.12</span>, y<span class="op">=</span><span class="fl">.86</span>, s<span class="op">=</span><span class="st">"Various countries, 1952-2007"</span>, transform<span class="op">=</span>fig.transFigure, ha<span class="op">=</span><span class="st">'left'</span>, fontsize<span class="op">=</span><span class="dv">11</span>, alpha<span class="op">=</span><span class="fl">.8</span>)</span>
+<span id="cb3-87"><a href="#cb3-87" aria-hidden="true" tabindex="-1"></a></span>
+<span id="cb3-88"><a href="#cb3-88" aria-hidden="true" tabindex="-1"></a><span class="co"># 출처 넣기</span></span>
+<span id="cb3-89"><a href="#cb3-89" aria-hidden="true" tabindex="-1"></a>ax.text(x<span class="op">=</span><span class="fl">0.12</span>, y<span class="op">=</span><span class="fl">0.01</span>, s<span class="op">=</span><span class="st">"""Source: "GAP minder"""</span>, transform<span class="op">=</span>fig.transFigure, ha<span class="op">=</span><span class="st">'left'</span>, fontsize<span class="op">=</span><span class="dv">9</span>, alpha<span class="op">=</span><span class="fl">.7</span>)</span>
+<span id="cb3-90"><a href="#cb3-90" aria-hidden="true" tabindex="-1"></a></span>
+<span id="cb3-91"><a href="#cb3-91" aria-hidden="true" tabindex="-1"></a>plt.savefig(<span class="st">"life_exp.png"</span>)</span>
+<span id="cb3-92"><a href="#cb3-92" aria-hidden="true" tabindex="-1"></a>plt.show()</span></code><button title="Copy to Clipboard" class="code-copy-button"><i class="bi"></i></button></pre></div>
 </div>
 
 
